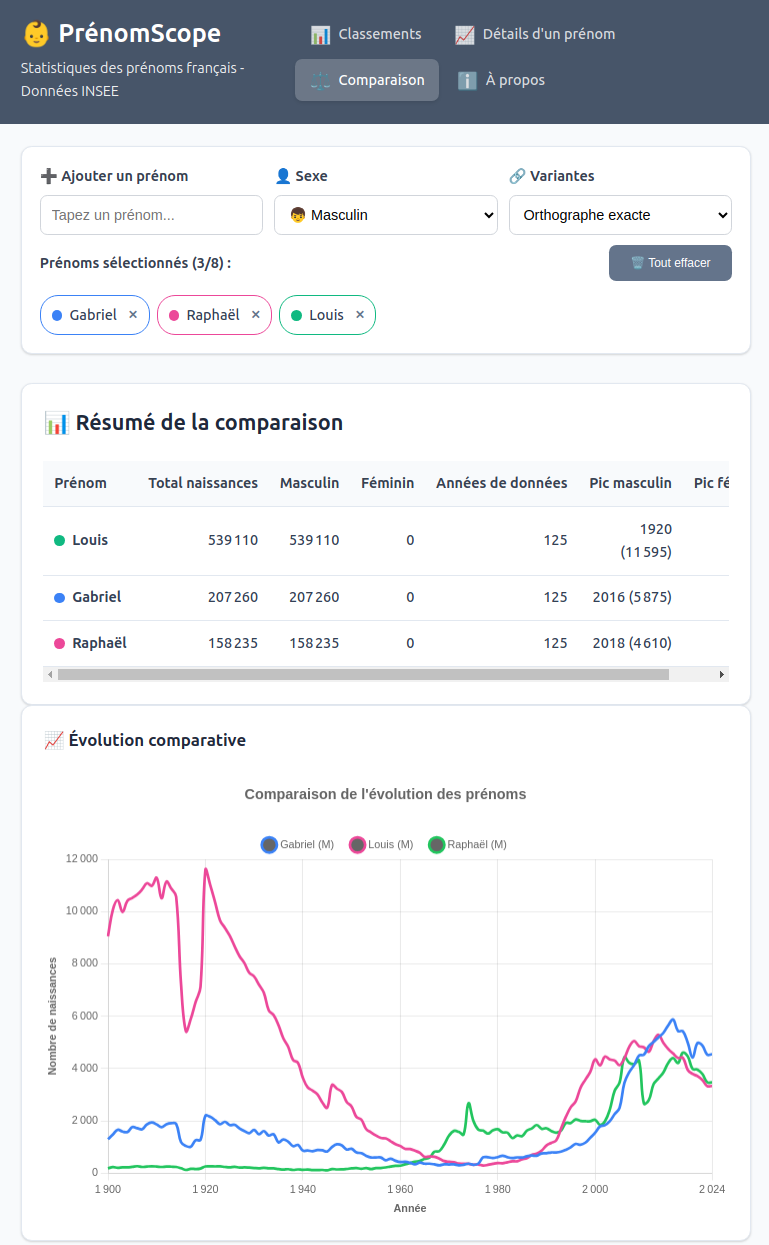
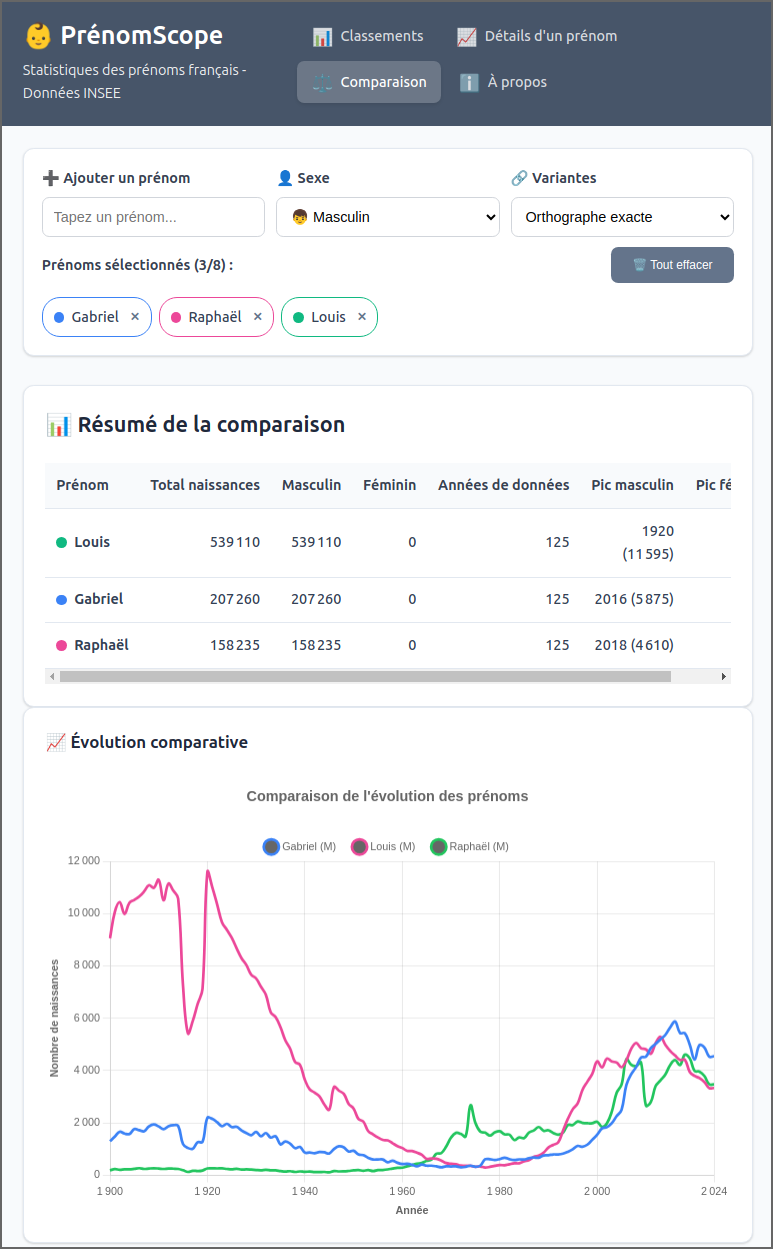
Improve screenshots layout

diff --git a/README.md b/README.md
@@ -4,13 +4,13 @@ A French baby names analysis tool based on official INSEE data. Visualize name t
 
 🌐 **Live Website**: [https://mthiboust.github.io/prenomscope/](https://mthiboust.github.io/prenomscope/)
 
-<div style="text-align: center;">
+<p align="center">
   <img src="ranking.png" alt="Name Rankings" width="220" />
   &nbsp;&nbsp;&nbsp;&nbsp;&nbsp;
   <img src="details.png" alt="Name Details" width="220" />
   &nbsp;&nbsp;&nbsp;&nbsp;&nbsp;
   <img src="comparison.png" alt="Name Comparison" width="220" />
-</div>
+</p>
 
 ## About
 
